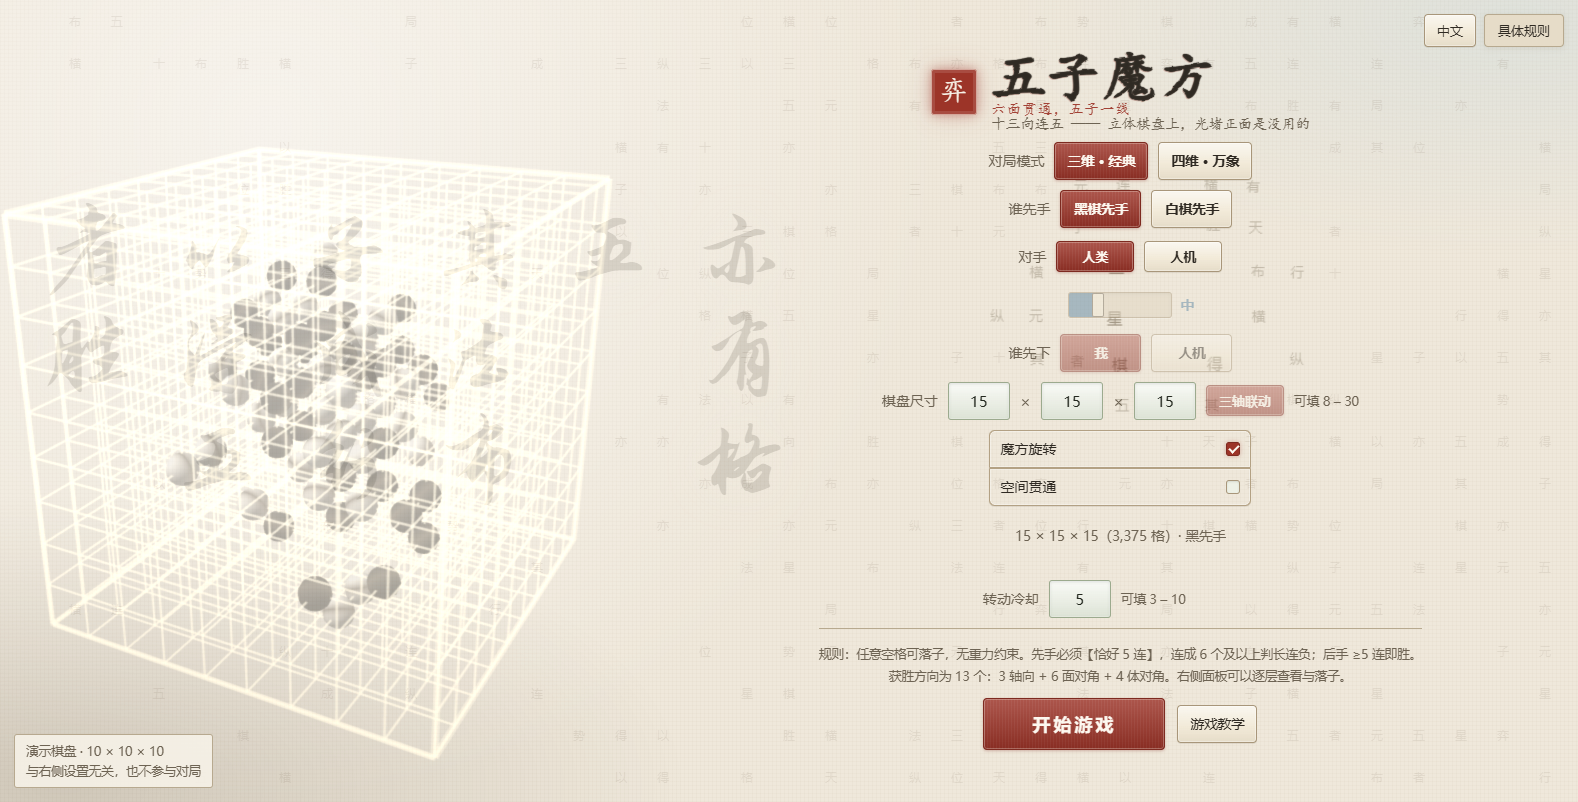
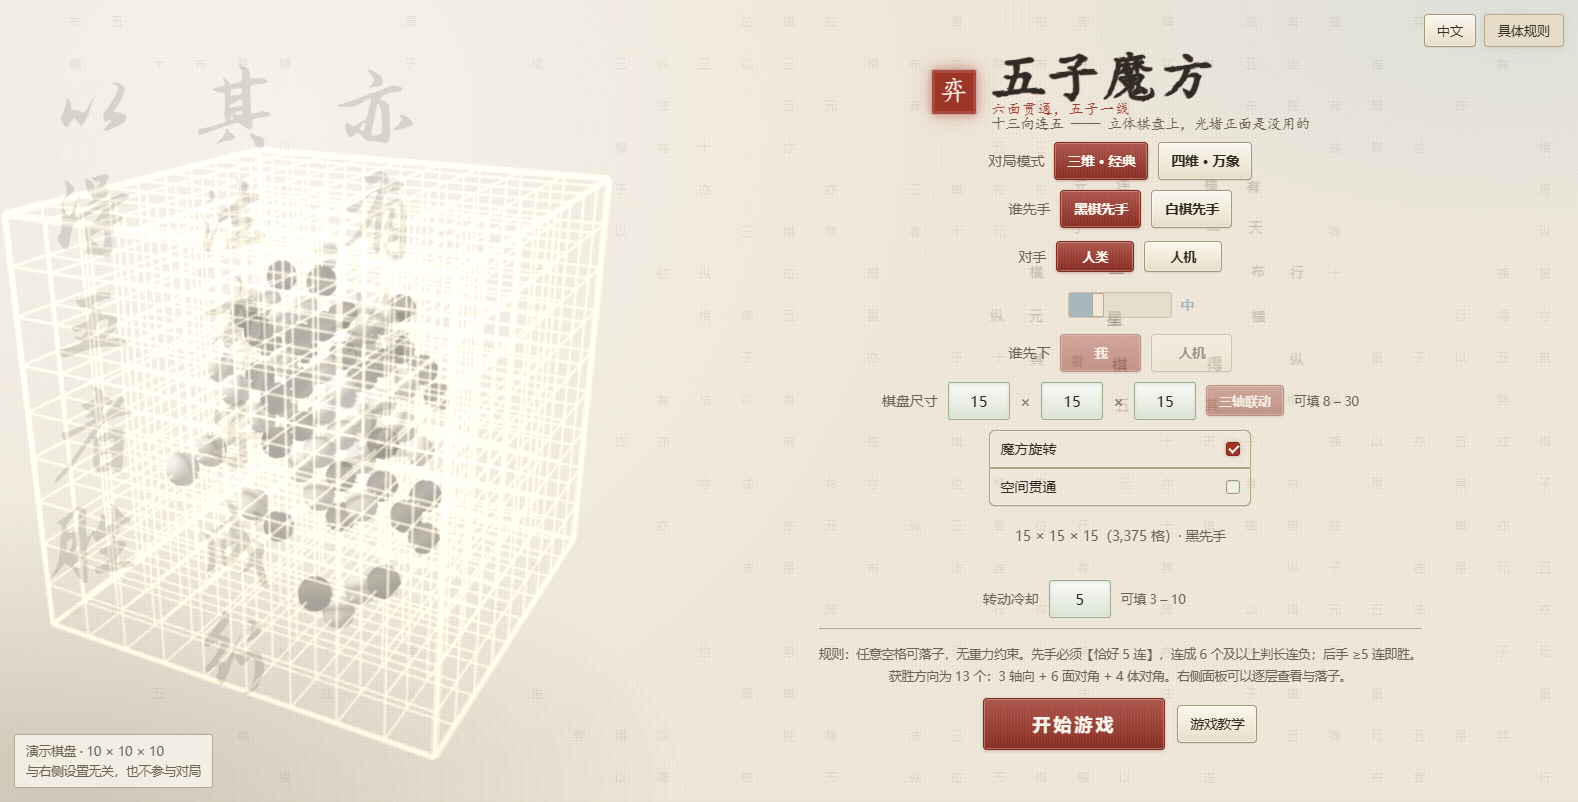
v3.1.6 修竖排水印的断句：top:50% 不写 bottom 把可用高度截成了一半
【症状】水印的断句不对、整块被横向拉长。
【根因】#inscription 用的是 `top: 50%; transform: translateY(-50%)` 这个"垂直居中"写法。
position: fixed 并且【没写 bottom】时，包含块是「top:50% 到视口底」那一段 ——
元素的可用高度被钉成视口的一半（802px 高 -> 401px）。
而竖排里 **height 决定"一列放得下几个字"**：401px 只放得下 3 个字，
于是「亦有格五 / 其法布子成行 / 以得五者胜」这 4/6/5 三句被拆成【6 列】，
外框从应有的 422×690 变成 782×401 —— 又宽又扁，就是"横向拉长"的样子。

【铁证】Range.getClientRects() 在竖排下每一列返回一个矩形：
改之前「亦有格五」返回 2 个矩形（x=689 和 x=559），改之后是 1 个。
截图上看不出根因，只会觉得"断句怪怪的"。

【修法】换成 `top: 7vh; bottom: 7vh` —— 可用高度 = 86vh，一列 6 个字绰绰有余；
居中靠上下等边距，不再用 transform。
字号跟着重算：一列 6 个字要塞进 86vh，所以字号 <= 13.6vh，取 13vh。
line-height 1.3 -> 1.35（列距），letter-spacing .05 -> .04em。

【顺带】这一条也把"不要故意横向拉长牌面"一起解决了 —— 两条抱怨是同一个 bug。

【测试】新增两条断言：
  · 水印正好 3 列（一句话一列）—— 直接数 client rects，多一个就是被挤断了；
  · 外框高 > 宽 —— 形状必须是"窄而高"，不是"宽而扁"。
  这两条钉住的是"列数/形状"这个层面，比"有没有放对字"更早一步发现问题：
  字全都在、顺序也对，只是被折成了错误的列数。

diff --git a/Web_Gomoku3D/index.html b/Web_Gomoku3D/index.html
@@ -1238,12 +1238,26 @@
        【为什么是 1 而不是 0 或负数】它得压在 #inkfield 之上（DOM 里它本来就在后面，
        同层级按顺序画），又要压在纸纹之上；负数会掉到 body 的背景底下，看不见。 */
     position: fixed; z-index: 1; pointer-events: none;
-    left: 1.4vw; top: 50%; transform: translateY(-50%);
+    /* 【高度必须显式给足，这是踩过的坑】
+       原来写的是 `top: 50%; transform: translateY(-50%)` —— 看起来是"垂直居中"，
+       实际是个陷阱：position: fixed 并且【没写 bottom】时，元素的包含块是
+       「top:50% 到视口底」那一段，于是它的可用高度被钉成【视口的一半】。
+       而竖排里 **height 决定"一列放得下几个字"** —— 802px 高的一半是 401px，
+       只放得下 3 个字，于是「亦有格五」被拆成两列、三句话拆成六列。
+       量出来的外框是 782×401：又宽又扁，正是"横向拉长"的样子。
+       （Range.getClientRects() 是铁证：「亦有格五」返回了 2 个矩形而不是 1 个。）
+
+       现在改成 top/bottom 一起写死：可用高度 = 86vh，一列 6 个字绰绰有余，
+       三句话回到三列，外框变成窄而高的 ~420×690 —— 这才是竖排该有的形状。
+       居中也不再用 transform：上下留一样的边距，本身就是居中。 */
+    left: 1.4vw; top: 7vh; bottom: 7vh;
     writing-mode: vertical-rl; text-orientation: upright;
     font-family: "BrushSub", "STXingkai", "华文行楷", "STKaiti", "华文楷体", "KaiTi", "楷体", serif;
-    font-size: clamp(38px, 12.5vh, 150px);
-    line-height: 1.3;         /* 竖排下 = 列与列的距离 */
-    letter-spacing: .05em;    /* 竖排下 = 列内字与字的距离 */
+    /* 一列 6 个字要塞进 86vh：6 × 字号 × (1+字距) <= 86vh
+       -> 字号 <= 13.6vh（字距 .04em 时）。取 13vh，留一点余量。 */
+    font-size: clamp(38px, 13vh, 150px);
+    line-height: 1.35;        /* 竖排下 = 列与列的距离 */
+    letter-spacing: .04em;    /* 竖排下 = 列内字与字的距离 */
     color: #332c22; opacity: .15;
     /* 两圈纸色外发光：水印压到演示棋盘上时，靠它把笔画和线框拉开一点距离，
        不然浅色纸底 + 淡墨 + 白色线框会糊成一片。
